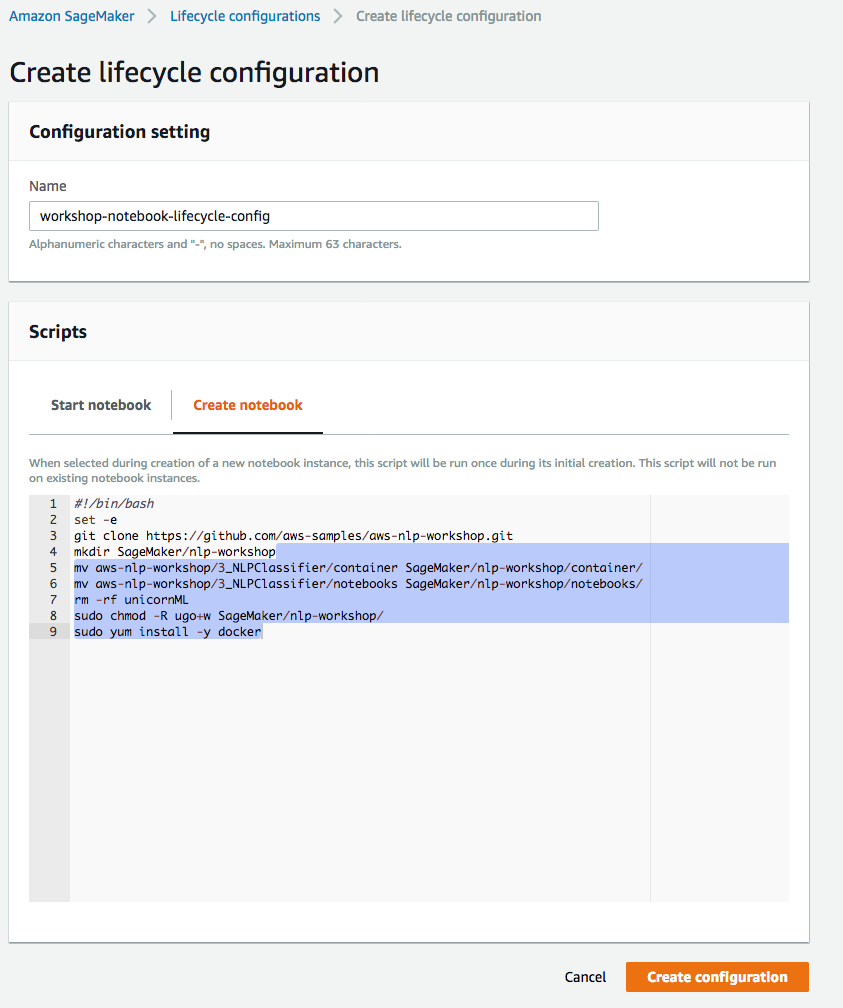
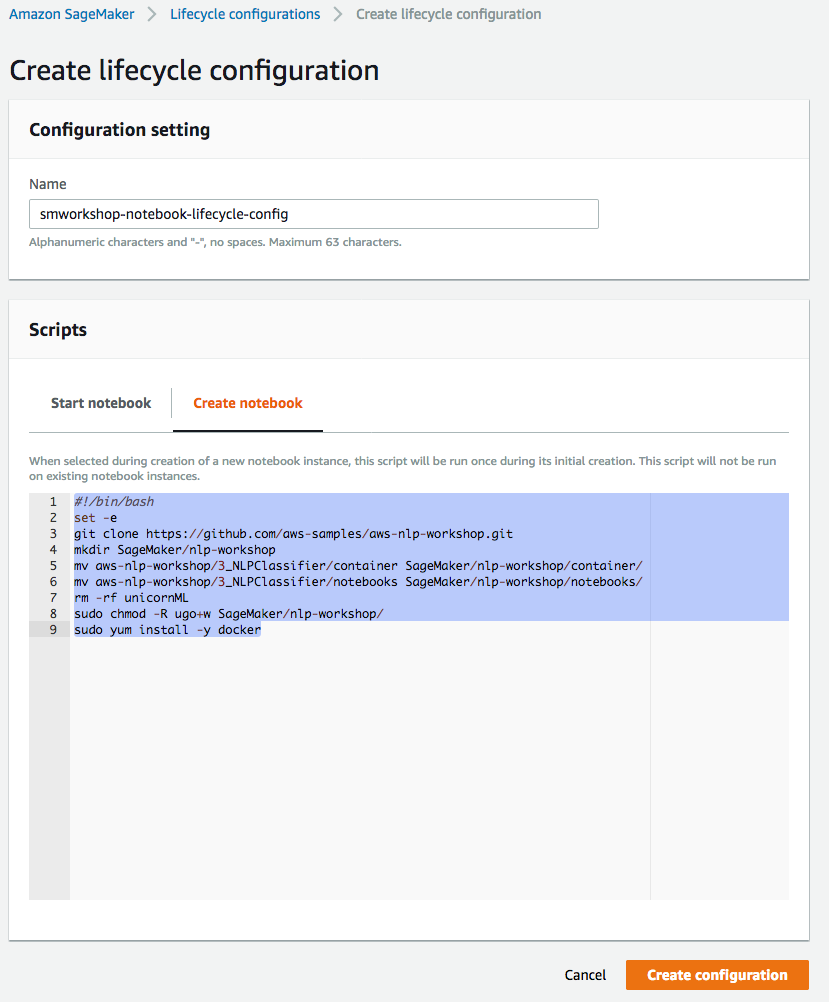
Updated instructions for module-3

diff --git a/3_NLPClassifier/README.md b/3_NLPClassifier/README.md
@@ -58,7 +58,7 @@ Lifecycle configurations are small bootup scripts, that you can use to automate 
 If following the low level method for model training and hosting, using this script, we'll also download the files required to make our custom container. In addition, in that case, we'll also use the startup script to start Docker service when the notebook instance is being started.
 
 ### High-Level Instructions
-1. Create a Lifecycle configuration named `workshop-notebook-lifecycle-config` from SageMaker console, with the following script for `Create Notebook`.
+1. Create a Lifecycle configuration named `smworkshop-notebook-lifecycle-config` from SageMaker console, with the following script for `Create Notebook`.
     ```
     #!/bin/bash
     set -e
@@ -89,9 +89,9 @@ If following the low level method for model training and hosting, using this scr
 1. Choose **Lifecycle configurations** under the section **Notebook** on the left panel.
     ![Lifecycle configurations](images/lifecycle_configuration.png)
 
-1. Choose **Create configuration** to open the create dialo.
+1. Choose **Create configuration** to open the create dialog.
 
-1. Type the name `workshop-notebook-lifecycle-config` in the `Name` field.
+1. Type the name `smworkshop-notebook-lifecycle-config` in the `Name` field.
 
 1. In the tab **Start notebook**, type or copy-paste the `Start Notebook` script from above. (This is required to run docker service, neccessary only if you are following the low level approach for model training and hosting).
     ![Start notebook script](images/lifecycle_configuration-start-notebook.png)
@@ -105,47 +105,43 @@ If following the low level method for model training and hosting, using this scr
 
 ## 3. Launching the Notebook Instance
 
-1. In the upper-right corner of the AWS Management Console, confirm you are in the desired AWS region. Select N. Virginia, Oregon, Ohio, or Ireland.
+### High-Level Instructions
+1. From SageMaker console, create a Notebook named `smworkshop-notebook`, with the instance type of `ml.m4.xlarge`.
 
-2. Click on Amazon SageMaker from the list of all services.  This will bring you to the Amazon SageMaker console homepage.
+1. Create and use an execution role with access to the S3 bucket you created in Section-1.
 
-![Services in Console](../images/console-services.png)
+1. Use the lifycycle configuration you created in Section-2
 
+<details>
+<summary><strong>Step-by-step instructions (expand for details)</strong></summary><p>
 
-3. Before you create a notebook instance, we want to create a "Lifecycle configuration". This is a small bootstrap script that will be run on the Notebook as soon as it starts. We will use this mechanism to download all the relevant notebook files.
+1. In the AWS Management Console choose **Services** then select **Amazon SageMaker** under Machine Learning.
 
-![Create lifecycle Configuration](images/lifecycle_configuration.png)
+1. Choose **Notebook instances** under the section **Notebook** on the left panel.
+    ![Notebook instances](images/notebook-instances.png)
 
-In this, enter the following script.
+1. Choose **Create notebook Instance** to open the create dialog.
 
-```
-#!/bin/bash
-set -e
-git clone https://github.com/aws-samples/aws-nlp-workshop.git
-mkdir SageMaker/nlp-workshop
-mv aws-nlp-workshop/3_NLPClassifier/container SageMaker/nlp-workshop/container/
-mv aws-nlp-workshop/3_NLPClassifier/notebooks SageMaker/nlp-workshop/notebooks/
-rm -rf unicornML
-sudo chmod -R ugo+w SageMaker/nlp-workshop/
-sudo yum install -y docker
-sudo service docker start
+1. Type the name `smworkshop-notebook` in the `Name` field.
 
-```
+1. From `Notebook instance type dropdown`, choose `ml.m4.xlarge`.
 
+1. From `IAM role` dropdown, choose `Create a new role`.
 
-4. To create a new notebook instance, go to **Notebook instances**, and click the **Create notebook instance** button at the top of the browser window.
+1. In the dialog that pops up, keep the radio button for `Specific S3 buckets` selected, and type the S3 bucket name, that you used in section-1 of this module, such as `smworkshop-firstname-lastname`.
+    ![Notebook instance IAM role](images/notebook-execution-role.png)
 
-![Notebook Instances](../images/notebook-instances.png)
+1. Choose **Create Role** to return to notebook creation dialog. Notice that SageMaker creates a new execution role with the current timestamp appended at the end of its name, and that this role remains selected under `IAM role` dropdown.
 
-5. Type smworkshop-[First Name]-[Last Name] into the **Notebook instance name** text box, and select ml.m4.xlarge for the **Notebook instance type**.
+1. From the `Lifecycle configuration` dropdown, choose the configuration named `smworkshop-notebook-lifecycle-config`, that you created in section-2.
 
-![Create Notebook Instance](../images/notebook-settings.png)
+1. Leave the VPC selection and Encryption Keys empty for the purpose of this workshop, and choose **Create notebook instance** to finish creation.
+    ![Notebook instance creation dialog](images/create-notebook-instance.png)
 
-6. For IAM role, choose **Create a new role**, and in the resulting pop-up modal, select **Specific S3 buckets** under **S3 Buckets you specify – optional**. In the text field, paste the name of the S3 bucket you created above, AND the following bucket name separated from the first by a comma:  `gdelt-open-data`.  The combined field entry should look similar to ```smworkshop-john-smith, gdelt-open-data```. Click **Create role**.
+1. You'll be returned to the list of notebooks, with the status of curren notebook shown as `Pending`. Wait till the status changes to `InService`, before proceeding to the next section.
+    ![Notebook instance creation status](images/notebook-instance-status.png)
 
-![Create IAM role](../images/role-popup.png)
-
-7. You will be taken back to the Create Notebook instance page.  Click **Create notebook instance**.
+</p></details>
 
 ### 4. Accessing the Notebook Instance
 
